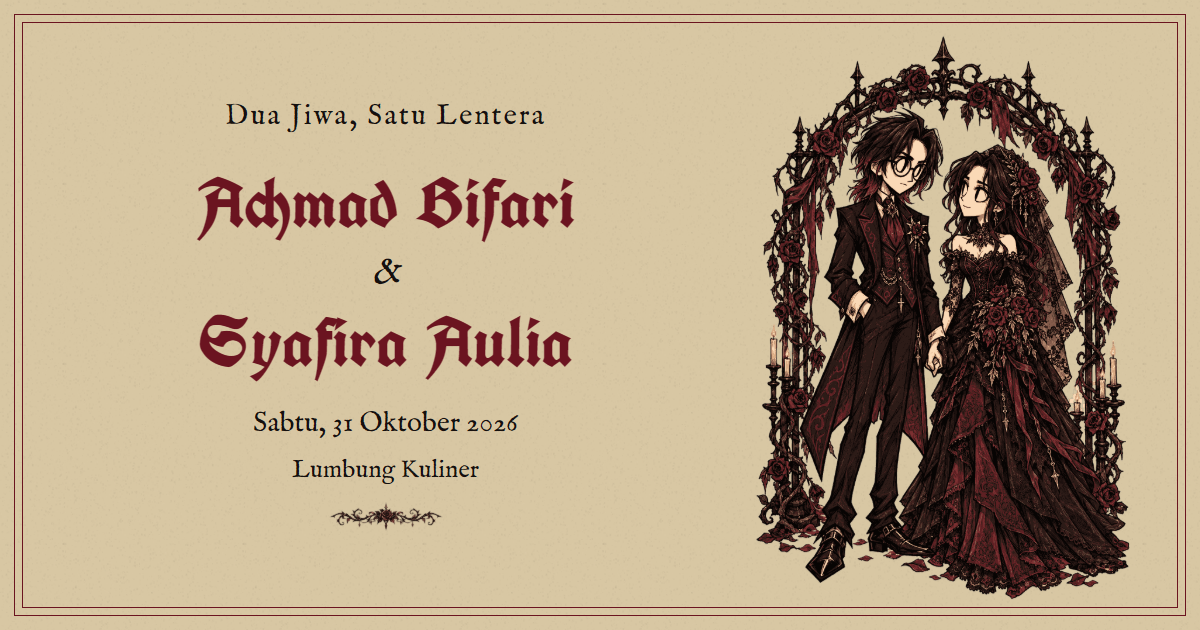
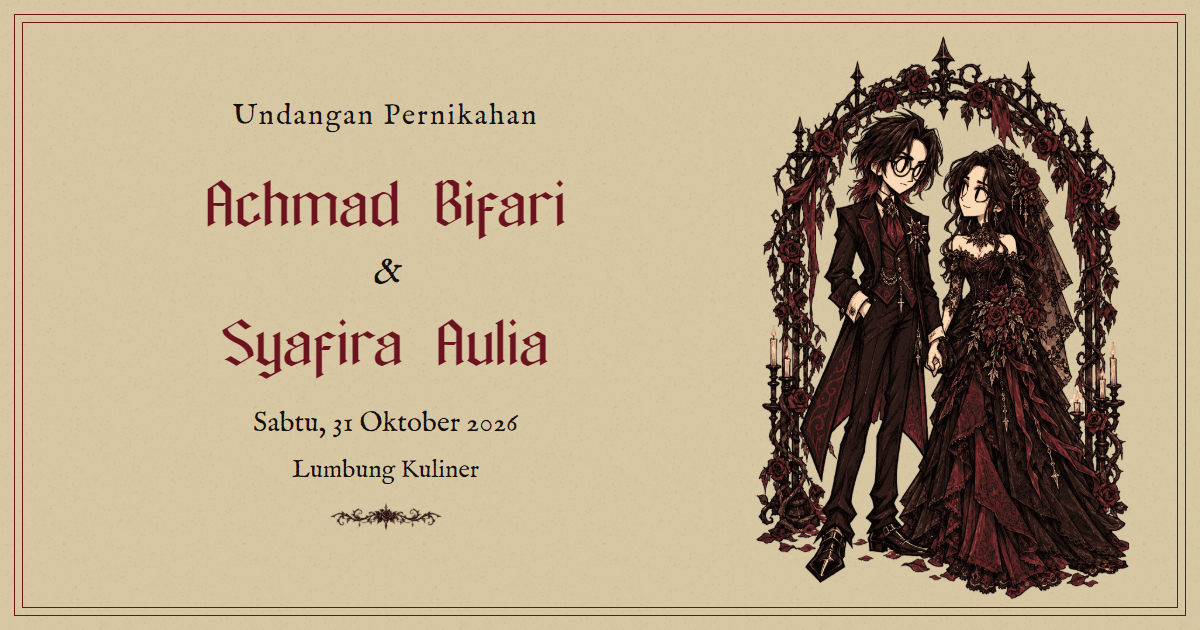
Move to diginvit subdomain and fit venue card on all phones
- Default and example URLs now use the *.diginvit.bifariachmad.com subdomains.
- Taller venue panel artwork keeps the address and Maps link inside the frame;
  the couple sits lower so faces stay visible.
- UI artwork check now covers seven phone/tablet viewports.
- Includes pending local copy, OG image and scene updates already deployed.

Changed region(s): [[0.1542, 0.4825, 0.4933, 0.6032], [0.1542, 0.2714, 0.4933, 0.3921], [0.185, 0.1508, 0.4625, 0.2111]]

diff --git a/src/markup.js b/src/markup.js
@@ -28,7 +28,7 @@ export function invitationMarkup(){
  ${scene('location','SYAFIRA',maproomArtwork(),maproomDialogue())}
  ${scene('rundown-0',agendaSpeaker(0),agendaArtwork(0),agendaDialogue(0),'vn-agenda').replace('</section>',`${agendaCard(0)}</section>`)}
  ${scene('dresscode','SYAFIRA',wardrobeArtwork(),wardrobeDialogue())}
- ${scene('reservation','BIFARI',guestbookArtwork(),`<p class="guestbook-line" aria-hidden="true">Setiap kehadiran sangat berarti bagi kami. Maka dari itu, izinkan kami untuk mencatat kehadiranmu.</p><span id="guestbook-description" class="sr-only" role="status" aria-live="polite"></span><div class="book-writing-area"><h2 id="reservation-title">Konfirmasi</h2><div class="vn-form-content"><p class="reservation-intro">Bisa hadir atau sedang berhalangan? Beri kabar di sini, ya.</p>
+ ${scene('reservation','BIFARI',guestbookArtwork(),`<p class="guestbook-line" aria-hidden="true">Beri tahu kami apakah kamu bisa hadir, supaya kami bisa menyiapkan tempat untukmu.</p><span id="guestbook-description" class="sr-only" role="status" aria-live="polite"></span><div class="book-writing-area"><h2 id="reservation-title">Konfirmasi</h2><div class="vn-form-content"><p class="reservation-intro">Bisa hadir atau sedang berhalangan? Beri kabar di sini, ya.</p>
  <form id="reservation-form" novalidate><div class="form-field"><label for="guest-name">Nama tamu</label><input id="guest-name" name="name" type="text" required minlength="2" maxlength="60" autocomplete="name" aria-describedby="name-error"/><p class="field-error" id="name-error" aria-live="polite"></p></div><fieldset class="attendance-options"><legend>Konfirmasi kehadiran</legend><label><input type="radio" name="attendance" value="attending" required/><span class="attendance-mark" aria-hidden="true"><svg viewBox="0 0 40 40" focusable="false"><path class="mark-paper" d="m7 6 25-2 3 7-2 24-25 2-4-7Z"/><path class="mark-rim" d="m9 8 21-1 2 24-22 3Z"/><path class="mark-sketch" d="m3 11 3-8 16-1M35 10l2 18-3 10-18 1M5 27l6 5m-5-2 5 5M26 4l3 6m0-7 3 7M7 15l2 5M32 25l-2 5"/><path class="mark-tick" d="m8 18 7 3 2 4L32 8l6-3-4 8-16 21-5-3Z"/><path class="mark-tick-scratch" d="m12 22 4 7L32 10"/></svg></span><span class="attendance-label">Akan hadir</span><span class="attendance-frame" aria-hidden="true"><svg viewBox="0 0 300 60" preserveAspectRatio="none" focusable="false"><path class="choice-paper" d="m1 11 12-8 60 1 20-2 115 2 79-3 12 11-2 35-9 10-82-2-85 3-109-3-10-9Z"/><path class="choice-rim" d="m6 13 10-7 67 1 69-1 83 1 51-2 10 9-2 31-8 8-101-1-63 3-106-3-8-8Z"/><path class="choice-sketch" d="m4 15 10-8M7 12l1 30 8 8m5 5 65 1 14-2m-54-51 16 1m42 1 43-1 41 2m92-1 8 8 1 26m-19 14 12 1 9-9M25 3l-3 8m6-8-3 9m146 39-1 7m4-6-1 6M283 8l5 8m-5-4 7 9"/></svg></span></label><label><input type="radio" name="attendance" value="declined" required/><span class="attendance-mark" aria-hidden="true"><svg viewBox="0 0 40 40" focusable="false"><path class="mark-paper" d="m7 6 25-2 3 7-2 24-25 2-4-7Z"/><path class="mark-rim" d="m9 8 21-1 2 24-22 3Z"/><path class="mark-sketch" d="m3 11 3-8 16-1M35 10l2 18-3 10-18 1M5 27l6 5m-5-2 5 5M26 4l3 6m0-7 3 7M7 15l2 5M32 25l-2 5"/><path class="mark-tick" d="m8 18 7 3 2 4L32 8l6-3-4 8-16 21-5-3Z"/><path class="mark-tick-scratch" d="m12 22 4 7L32 10"/></svg></span><span class="attendance-label">Tidak dapat hadir</span><span class="attendance-frame" aria-hidden="true"><svg viewBox="0 0 300 60" preserveAspectRatio="none" focusable="false"><path class="choice-paper" d="m1 11 12-8 60 1 20-2 115 2 79-3 12 11-2 35-9 10-82-2-85 3-109-3-10-9Z"/><path class="choice-rim" d="m6 13 10-7 67 1 69-1 83 1 51-2 10 9-2 31-8 8-101-1-63 3-106-3-8-8Z"/><path class="choice-sketch" d="m4 15 10-8M7 12l1 30 8 8m5 5 65 1 14-2m-54-51 16 1m42 1 43-1 41 2m92-1 8 8 1 26m-19 14 12 1 9-9M25 3l-3 8m6-8-3 9m146 39-1 7m4-6-1 6M283 8l5 8m-5-4 7 9"/></svg></span></label></fieldset><div class="form-field" id="guest-count-field" hidden><label for="guest-count">Jumlah tamu (termasuk kamu)</label><div class="stepper"><button type="button" id="minus" aria-label="Kurangi jumlah tamu">${icon('minus')}</button><input id="guest-count" name="guests" type="number" min="1" max="${CONFIG.MAX_GUESTS}" step="1" value="1" disabled inputmode="numeric" aria-describedby="count-error"/><button type="button" id="plus" aria-label="Tambah jumlah tamu">${icon('plus')}</button></div><p class="field-error" id="count-error" aria-live="polite"></p></div><div class="honeypot" aria-hidden="true"><label for="website">Website</label><input id="website" name="website" type="text" tabindex="-1" autocomplete="off"/></div><button type="submit" class="button primary" id="submit-reservation" disabled>Simpan Kehadiran</button></form>
  <div id="reservation-success" role="status" hidden><img class="success-seal" src="/assets/png/wax-seal.png" alt="Segel Bifari dan Syafira"/><span class="success-kicker">BUKU TAMU</span><strong>Namamu sudah tercatat</strong><p class="success-guest"></p><p class="success-detail"></p></div><p id="reservation-status" role="status" aria-live="polite"></p><button class="vn-action" id="recall-ticket" hidden>Lihat Tiket</button><div id="ticket-host" hidden></div></div></div>`,'vn-form-scene')}
  ${scene('closing','BIFARI & SYAFIRA',farewellArtwork(),farewellDialogue())}

diff --git a/artwork/og-source.html b/artwork/og-source.html
@@ -1,1 +1,1 @@
-<!doctype html><html lang="id"><meta charset="utf-8"><meta name="robots" content="noindex,nofollow"><title>Dua Jiwa, Satu Lentera</title><style>@font-face{font-family:title;src:url('/assets/fonts/unifrakturcook-latin-700-normal.woff2')}@font-face{font-family:body;src:url('/assets/fonts/im-fell-english-latin-400-normal.woff2')}*{box-sizing:border-box}body{margin:0;width:1200px;height:630px;background:#D8C7A3;color:#15100E;position:relative;overflow:hidden;font-family:body,Georgia}body:before{content:'';position:absolute;inset:0;background:url('/assets/png/paper-filter.png');opacity:.25}.frame{position:absolute;inset:22px;border:1px solid #6B1420;outline:1px solid #6B1420;outline-offset:7px}.copy{position:absolute;top:98px;left:68px;width:635px;text-align:center}.eyebrow{font-size:29px;letter-spacing:2px;margin:0 0 31px}h1{font:70px/1.07 title,Georgia;margin:0;color:#6B1420}h1 em{font:italic 38px body;color:#15100E;display:block;margin:8px}p{font-size:28px;margin:26px 0 0}.venue{font-size:25px;margin-top:13px}.couple{position:absolute;right:5px;top:34px;width:505px;height:570px;object-fit:contain}.divider{width:180px;height:38px;object-fit:contain;margin-top:14px}</style><div class="frame"></div><img class="couple" src="/assets/png/arch-roses.png" alt=""><div class="copy"><p class="eyebrow">Dua Jiwa, Satu Lentera</p><h1>Achmad Bifari<em>&</em>Syafira Aulia</h1><p>Sabtu, 31 Oktober 2026</p><p class="venue">Lumbung Kuliner</p><img class="divider" src="/assets/png/ornament-divider.png" alt=""></div></html>
+<!doctype html><html lang="id"><meta charset="utf-8"><meta name="robots" content="noindex,nofollow"><title>Pernikahan Bifari & Syafira</title><style>@font-face{font-family:title;src:url('/assets/fonts/GALVANIZED.ttf')}@font-face{font-family:body;src:url('/assets/fonts/im-fell-english-latin-400-normal.woff2')}*{box-sizing:border-box}body{margin:0;width:1200px;height:630px;background:#D8C7A3;color:#15100E;position:relative;overflow:hidden;font-family:body,Georgia}body:before{content:'';position:absolute;inset:0;background:url('/assets/png/paper-filter.png');opacity:.25}.frame{position:absolute;inset:22px;border:1px solid #6B1420;outline:1px solid #6B1420;outline-offset:7px}.copy{position:absolute;top:98px;left:68px;width:635px;text-align:center}.eyebrow{font-size:29px;letter-spacing:2px;margin:0 0 31px}h1{font:70px/1.07 title,Georgia;margin:0;color:#6B1420}h1 em{font:italic 38px body;color:#15100E;display:block;margin:8px}p{font-size:28px;margin:26px 0 0}.venue{font-size:25px;margin-top:13px}.couple{position:absolute;right:5px;top:34px;width:505px;height:570px;object-fit:contain}.divider{width:180px;height:38px;object-fit:contain;margin-top:14px}</style><div class="frame"></div><img class="couple" src="/assets/png/arch-roses.png" alt=""><div class="copy"><p class="eyebrow">Undangan Pernikahan</p><h1>Achmad Bifari<em>&</em>Syafira Aulia</h1><p>Sabtu, 31 Oktober 2026</p><p class="venue">Lumbung Kuliner</p><img class="divider" src="/assets/png/ornament-divider.png" alt=""></div></html>

diff --git a/src/clockroom-markup.js b/src/clockroom-markup.js
@@ -1,4 +1,4 @@
 import {hostsMarkup} from './hosts-markup.js';
 import {CONFIG} from './config.js';
-export function clockroomArtwork(){return `<div class="clockroom-camera"><img class="clockroom-background" data-src="/assets/png/clockroom/clock-room.png" alt=""/>${hostsMarkup()}</div><div class="welcome-shade"></div><header class="welcome-heading"><span>PART IV</span><h2 id="countdown-title">Tanggal resepsi</h2><img src="/assets/png/arrival/ui-divider.png" alt=""/></header><div class="clockroom-countdown"><p class="event-date"><strong>${CONFIG.EVENT.dateLabel}</strong><span>${CONFIG.EVENT.arrival}</span></p><div id="countdown-digits" class="countdown-grid" role="timer" aria-label="Hitung mundur menuju resepsi ${CONFIG.EVENT.dateLabel} pukul ${CONFIG.EVENT.arrival}">${['Hari','Jam','Menit','Detik'].map((l,i)=>`<div><span class="digit" data-digit="${i}">00</span><span class="digit-label">${l}</span></div>`).join('')}</div><p id="countdown-arrived" hidden>Hari yang dinanti telah tiba.</p></div>`;}
-export function clockroomDialogue(){return `<p id="clockroom-line" aria-hidden="true">Kami akan melaksanakan resepsi pernikahan kami pada ${CONFIG.EVENT.dateLabel}.</p><span id="clockroom-description" class="sr-only" role="status" aria-live="polite">SYAFIRA: Kami akan melaksanakan resepsi pernikahan kami pada ${CONFIG.EVENT.dateLabel}.</span>`;}
+export function clockroomArtwork(){return `<div class="clockroom-camera"><img class="clockroom-background" data-src="/assets/png/clockroom/clock-room.png" alt=""/>${hostsMarkup()}</div><div class="welcome-shade"></div><header class="welcome-heading"><span>PART IV</span><h2 id="countdown-title">Tanggal resepsi</h2><img src="/assets/png/arrival/ui-divider.png" alt=""/></header><div class="clockroom-countdown"><p class="event-date"><strong>${CONFIG.EVENT.dateLabel}</strong><span>${CONFIG.EVENT.arrival}</span></p><div id="countdown-digits" class="countdown-grid" role="timer" aria-label="Hitung mundur menuju resepsi ${CONFIG.EVENT.dateLabel} pukul ${CONFIG.EVENT.arrival}">${['Hari','Jam','Menit','Detik'].map((l,i)=>`<div><span class="digit" data-digit="${i}">00</span><span class="digit-label">${l}</span></div>`).join('')}</div><p id="countdown-arrived" hidden>Resepsi sudah dimulai.</p></div>`;}
+export function clockroomDialogue(){return `<p id="clockroom-line" aria-hidden="true">Resepsi kami akan berlangsung pada ${CONFIG.EVENT.dateLabel}.</p><span id="clockroom-description" class="sr-only" role="status" aria-live="polite">SYAFIRA: Resepsi kami akan berlangsung pada ${CONFIG.EVENT.dateLabel}.</span>`;}

diff --git a/src/finale-markup.js b/src/finale-markup.js
@@ -1,4 +1,4 @@
 import {hostsMarkup} from './hosts-markup.js';
 export function guestbookArtwork(){return `<img class="finale-background" data-src="/assets/png/rooms/overhead-desk.png" alt=""/><div class="agenda-shade"></div><div class="guestbook-object"><div class="guestbook-spread"><img class="book-right" data-src="/assets/png/guestbook/right-page.png" alt=""/><div class="book-leaf"><img class="book-front" data-src="/assets/png/guestbook/closed.png" alt=""/><img class="book-back" data-src="/assets/png/guestbook/left-page.png" alt=""/></div></div></div><header class="welcome-heading"><span>PART VIII</span><h2>Buku tamu</h2><img src="/assets/png/arrival/ui-divider.png" alt=""/></header>`;}
 export function farewellArtwork(){return `<div class="farewell-camera"><img class="finale-background" data-src="/assets/png/finale/farewell-garden.png" alt=""/>${hostsMarkup()}</div><div class="agenda-shade"></div><header class="welcome-heading"><span>PART IX</span><h2 id="closing-title">Tiket Undangan</h2><img src="/assets/png/arrival/ui-divider.png" alt=""/></header>`;}
-export function farewellDialogue(){return `<article id="closing-summary"><div id="declined-summary" hidden><h3>Doa baikmu tetap berarti</h3><p class="declined-name"></p><p>Terima kasih sudah memberi kabar. Semoga kita bisa bertemu di kesempatan lainnya.</p><p>Salam hangat,<br>Bifari &amp; Syafira</p></div><img class="ticket-preview" alt="" hidden/><div class="summary-accessible sr-only"><span class="summary-name"></span><span class="summary-guests"></span><span class="summary-code"></span><span class="summary-mode"></span></div><button id="save-summary" class="vn-action" disabled>Simpan Tiket sebagai Foto</button><button id="summary-calendar" class="vn-action" hidden>Tambahkan ke Kalender</button></article>`;}
+export function farewellDialogue(){return `<article id="closing-summary"><div id="declined-summary" hidden><h3>Terima kasih sudah memberi kabar</h3><p class="declined-name"></p><p>Semoga kita bisa bertemu di lain waktu.</p><p>Salam hangat,<br>Bifari &amp; Syafira</p></div><img class="ticket-preview" alt="" hidden/><div class="summary-accessible sr-only"><span class="summary-name"></span><span class="summary-guests"></span><span class="summary-code"></span><span class="summary-mode"></span></div><button id="save-summary" class="vn-action" disabled>Simpan foto tiket</button><button id="summary-calendar" class="vn-action" hidden>Tambahkan ke Kalender</button></article>`;}

diff --git a/src/ticket.js b/src/ticket.js
@@ -9,7 +9,7 @@ const escapeICS=value=>String(value).replaceAll('\\','\\\\').replaceAll('\n','\\
 const utc=value=>new Date(value).toISOString().replaceAll(/[-:]/g,'').replace('.000','');
 export function calendarFile(){
   const e=CONFIG.EVENT;
-  const lines=['BEGIN:VCALENDAR','VERSION:2.0','PRODID:-//Dua Jiwa Satu Lentera//ID','CALSCALE:GREGORIAN','METHOD:PUBLISH','BEGIN:VEVENT','UID:dua-jiwa-satu-lentera-20261031@invitation',`DTSTAMP:${utc(new Date())}`,`DTSTART:${utc(e.start)}`,...(e.end?[`DTEND:${utc(e.end)}`]:[]),`SUMMARY:${escapeICS(`Resepsi ${e.names.join(' & ')}`)}`,`LOCATION:${escapeICS([e.venue,...e.addressLines].join(', '))}`,`GEO:${e.geo.join(';')}`,`URL:${invitationUrl()}`,'END:VEVENT','END:VCALENDAR'];
+  const lines=['BEGIN:VCALENDAR','VERSION:2.0','PRODID:-//Pernikahan Bifari Syafira//ID','CALSCALE:GREGORIAN','METHOD:PUBLISH','BEGIN:VEVENT','UID:dua-jiwa-satu-lentera-20261031@invitation',`DTSTAMP:${utc(new Date())}`,`DTSTART:${utc(e.start)}`,...(e.end?[`DTEND:${utc(e.end)}`]:[]),`SUMMARY:${escapeICS(`Resepsi ${e.names.join(' & ')}`)}`,`LOCATION:${escapeICS([e.venue,...e.addressLines].join(', '))}`,`GEO:${e.geo.join(';')}`,`URL:${invitationUrl()}`,'END:VEVENT','END:VCALENDAR'];
   // RFC 5545 lines are folded at at most 75 UTF-8 octets, not UTF-16 units.
   return lines.map(line=>{let out='',part='';for(const c of line){if(new TextEncoder().encode(part+c).length>73){out+=part+'\r\n ';part='';}part+=c;}return out+part;}).join('\r\n')+'\r\n';
 }
@@ -22,7 +22,7 @@ export async function renderTicket(host,ticket,edit) {
   host.querySelector('.ticket-code').textContent=displayCode(ticket.id);
   host.querySelector('.ticket-qr').src=await qrData(ticket);
   host.querySelector('#save-ticket').onclick=()=>saveTicket(ticket);
-  host.querySelector('#calendar').onclick=()=>downloadBlob(new Blob([calendarFile()],{type:'text/calendar;charset=utf-8'}),'dua-jiwa-satu-lentera.ics');
+  host.querySelector('#calendar').onclick=()=>downloadBlob(new Blob([calendarFile()],{type:'text/calendar;charset=utf-8'}),'pernikahan-bifari-syafira.ics');
   host.querySelector('#edit-reservation').onclick=edit;
   await hydrateArt(host);
 }

diff --git a/src/config.js b/src/config.js
@@ -1,5 +1,5 @@
 export const CONFIG = Object.freeze({
-  BASE_URL: (import.meta.env?.VITE_DIGITAL_URL || 'https://wedding-syabiff-undangan.vercel.app').replace(/\/$/, ''),
+  BASE_URL: (import.meta.env?.VITE_DIGITAL_URL || 'https://undangan.diginvit.bifariachmad.com').replace(/\/$/, ''),
   APPS_SCRIPT_URL: import.meta.env?.VITE_APPS_SCRIPT_URL || 'https://script.google.com/macros/s/AKfycby6Q4_kxRQJ_l8Z8dpck1jXLT2v2dgq-9-V-Z4d6YjJeNE645GnrfMTkMWXfdNyXur1yA/exec',
   BGM_SRC: '/assets/audio/canon-in-d-piano.mp3',
   MAX_GUESTS: 5,
@@ -27,15 +27,14 @@ export const CONFIG = Object.freeze({
   },
   RUNDOWN: [
     { title: 'Registrasi & Welcome Drink', description: 'Tunjukkan tiketmu, lalu nikmati minuman sambutan.' },
-    { title: 'Pembukaan MC', description: 'Sambutan hangat untuk memulai sore bersama.' },
+    { title: 'Pembukaan MC', description: 'MC membuka acara resepsi.' },
     { title: 'Sambutan Kedua Mempelai', description: 'Sepatah dua kata dari Bifari dan Syafira.' },
     { title: 'Video Perjalanan Kami', description: 'Melihat kembali cerita Bifari dan Syafira.' },
-    { title: 'Tukar Cincin', description: 'Satu momen untuk merayakan janji kami.' },
+    { title: 'Tukar Cincin', description: 'Bifari dan Syafira bertukar cincin.' },
     { title: 'Pesan dari Keluarga', description: 'Doa dan harapan dari orang-orang terdekat.' },
-    { title: 'Foto Bersama', description: 'Menyimpan kenangan bersama keluarga dan sahabat.' },
+    { title: 'Foto Bersama', description: 'Foto bersama keluarga dan sahabat.' },
     { title: 'Makan & Berbincang', description: 'Nikmati hidangan, kami akan menyapa mejamu.' },
-    { title: 'Mini Games', description: 'Bermain sebentar, tertawa bersama.' },
-    { title: 'Penutupan', description: 'Terima kasih sudah menjadi bagian dari hari kami.' },
+    { title: 'Penutupan', description: 'Terima kasih sudah hadir.' },
   ],
 });
 export const invitationUrl = () => CONFIG.BASE_URL || window.location.origin;

diff --git a/src/rsvp.css b/src/rsvp.css
@@ -52,6 +52,9 @@
 
 #invitation #summary-calendar{flex:0 0 auto;min-height:44px;max-width:90%;width:auto;padding:8px 22px;font:clamp(14px,3.5cqw,20px)/1.25 var(--body);background:transparent url('/assets/png/ui-v2/button-wide-angular-v1.png') center/100% 100% no-repeat;border:0;color:#f4dfc5}
 #invitation #closing-summary .summary-fallback{position:static!important;width:auto!important;height:auto!important;clip-path:none;overflow:visible!important;white-space:normal;display:grid;gap:10px;padding:25px;background:#eadfc8;color:#431d28;font-size:20px}
-#invitation #location .maproom-venue{aspect-ratio:960/565;background-size:100% 100%;padding-block:4cqw 2cqw}
+#invitation #location .maproom-venue{top:15%;width:90%;aspect-ratio:960/629;background-image:url('/assets/png/ui-v2/panel-venue-tall-angular-v1.png');background-size:contain;padding:6cqw 7cqw 4cqw;gap:.4cqw}
+/* The taller venue card needs the couple a little lower so their faces stay visible. */
+#invitation #location .welcome-couple{bottom:5%;height:45%}
+#invitation #location .maproom-venue h3{font-size:clamp(21px,5.6cqw,34px);line-height:1.05}
 #invitation #location .venue-address{font:clamp(12px,3cqw,17px)/1.2 var(--body);color:#dcc4a5;text-align:center;margin:1cqw 0}
 #invitation #location .maproom-venue p{font-size:clamp(14px,3.7cqw,21px)}

diff --git a/src/wardrobe-markup.js b/src/wardrobe-markup.js
@@ -1,2 +1,2 @@
 export function wardrobeArtwork(){return `<div class="wardrobe-camera"><img class="wardrobe-background" data-src="/assets/png/wardrobe/dressing-room.png" alt=""/></div><div class="agenda-shade"></div><header class="welcome-heading"><span>PART VII</span><h2 id="dresscode-title">Dresscode</h2><img src="/assets/png/arrival/ui-divider.png" alt=""/></header><div class="wardrobe-swatch" hidden><figure class="cloth-option cloth-maroon"><img data-src="/assets/png/cloth-swatch.png" alt=""/><figcaption>MAROON</figcaption></figure><figure class="cloth-option cloth-black"><img data-src="/assets/png/cloth-swatch.png" alt=""/><figcaption>HITAM</figcaption></figure></div>`;}
-export function wardrobeDialogue(){return `<p id="wardrobe-line" aria-hidden="true">Warna tema pernikahan kami adalah merah maroon dan hitam.</p><span class="sr-only" id="wardrobe-description" role="status" aria-live="polite">SYAFIRA: Warna tema pernikahan kami adalah merah maroon dan hitam.</span>`;}
+export function wardrobeDialogue(){return `<p id="wardrobe-line" aria-hidden="true">Untuk dresscode, kami memilih maroon atau hitam.</p><span class="sr-only" id="wardrobe-description" role="status" aria-live="polite">SYAFIRA: Untuk dresscode, kami memilih maroon atau hitam.</span>`;}

diff --git a/src/maproom.js b/src/maproom.js
@@ -3,7 +3,7 @@ import {fitDialogue} from './dialogue-artwork.js';
 import {sound} from './audio.js';
 import {CONFIG} from './config.js';
 const reduced=()=>matchMedia('(prefers-reduced-motion: reduce)').matches;
-const lines=[['BIFARI',`Resepsi kami diadakan di ${CONFIG.EVENT.venue}.`],['SYAFIRA',`Kamu bisa membuka Google Maps untuk melihat rute dan alamat lengkapnya ya.`]];
+const lines=[['BIFARI',`Resepsi kami diadakan di ${CONFIG.EVENT.venue}.`],['SYAFIRA',`Buka Google Maps lewat tombol lokasi untuk melihat rutenya.`]];
 export function initMaproom(){
  const root=document.querySelector('#invitation'),scene=document.querySelector('#location'),$=s=>scene.querySelector(s);let step=0,busy=false;
  function controls(){scene.dataset.mapStep=String(step);root.dataset.mapBusy=String(busy);root.querySelector('#nav-next').disabled=busy;root.querySelector('#nav-back').disabled=busy;root.querySelector('#journey-position').innerHTML=`${String(step+1).padStart(2,'0')} <small>/ 02</small>`;gsap.set('#journey-progress',{scaleX:(step+1)/lines.length});}

diff --git a/src/device.js b/src/device.js
@@ -14,7 +14,7 @@ export async function preparePortrait(app, mount) {
  async function sync(){
   const mobile=isMobile(),blocked=!mobile||innerWidth>innerHeight;
   notice.querySelector('h1').textContent=mobile?'Putar perangkatmu':'Buka undangan di HP atau tablet';
-  notice.querySelector('p').textContent=mobile?'Pegang HP atau tablet secara vertikal untuk melanjutkan kisahnya.':'Undangan ini dirancang untuk layar vertikal. Silakan buka tautan yang sama melalui HP atau tablet.';
+  notice.querySelector('p').textContent=mobile?'Pegang HP atau tablet secara vertikal untuk membuka undangan.':'Undangan ini dirancang untuk layar vertikal. Silakan buka tautan yang sama melalui HP atau tablet.';
   notice.hidden=!blocked;app.hidden=blocked;
   document.dispatchEvent(new CustomEvent('devicechange',{detail:{blocked}}));
   if(!blocked&&!mounting){app.dataset.ready='false';mounting=Promise.resolve().then(mount).then(()=>{app.dataset.ready='true';});}

diff --git a/src/wardrobe.js b/src/wardrobe.js
@@ -2,9 +2,9 @@ import gsap from 'gsap';
 import {fitDialogue} from './dialogue-artwork.js';
 import {sound} from './audio.js';
 const lines=[
- ['SYAFIRA','Warna tema pernikahan kami adalah merah maroon dan hitam.'],
- ['SYAFIRA','Kamu bisa memakai pakaian berwarna merah maroon maupun hitam, kombinasi keduanya juga boleh!'],
- ['BIFARI','Jangan sampai salah warna ya! Merah maroon atau hitam, okay?']
+ ['SYAFIRA','Untuk dresscode, kami memilih maroon atau hitam.'],
+ ['SYAFIRA','Kamu boleh memilih salah satunya atau memadukan keduanya.'],
+ ['BIFARI','Pilih pakaian yang nyaman untuk menikmati acara.']
 ];
 export function initWardrobe(){
  const root=document.querySelector('#invitation'),scene=document.querySelector('#dresscode'),line=scene.querySelector('#wardrobe-line'),swatch=scene.querySelector('.wardrobe-swatch');let step=0,busy=false;

diff --git a/src/guestbook.js b/src/guestbook.js
@@ -1,7 +1,7 @@
 import gsap from 'gsap';
 import {fitDialogue} from './dialogue-artwork.js';
 import {sound} from './audio.js';
-const captions=['Setiap kehadiran sangat berarti bagi kami. Maka dari itu, izinkan kami untuk mencatat kehadiranmu.','','Silakan tuliskan nama dan konfirmasi kehadiranmu.'];
+const captions=['Beri tahu kami apakah kamu bisa hadir, supaya kami bisa menyiapkan tempat untukmu.','','Silakan tuliskan nama dan konfirmasi kehadiranmu.'];
 export function initGuestbook(canContinue=()=>true){
  const root=document.querySelector('#invitation'),scene=document.querySelector('#reservation'),book=scene.querySelector('.guestbook-spread'),leaf=scene.querySelector('.book-leaf'),dialogue=scene.querySelector('.vn-dialogue');let step=0,busy=false,typing;
  const reduced=()=>matchMedia('(prefers-reduced-motion: reduce)').matches;
